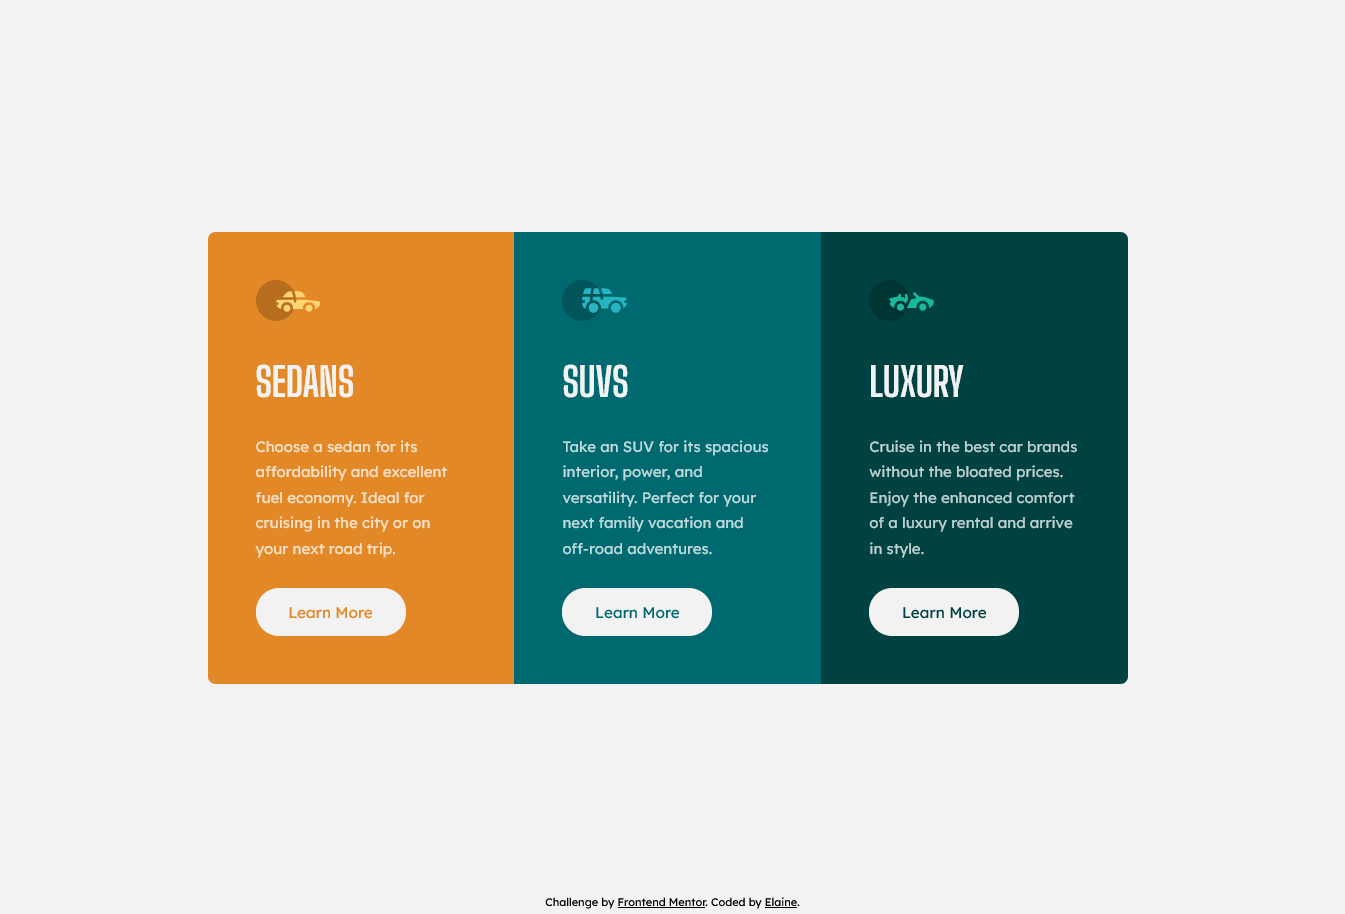
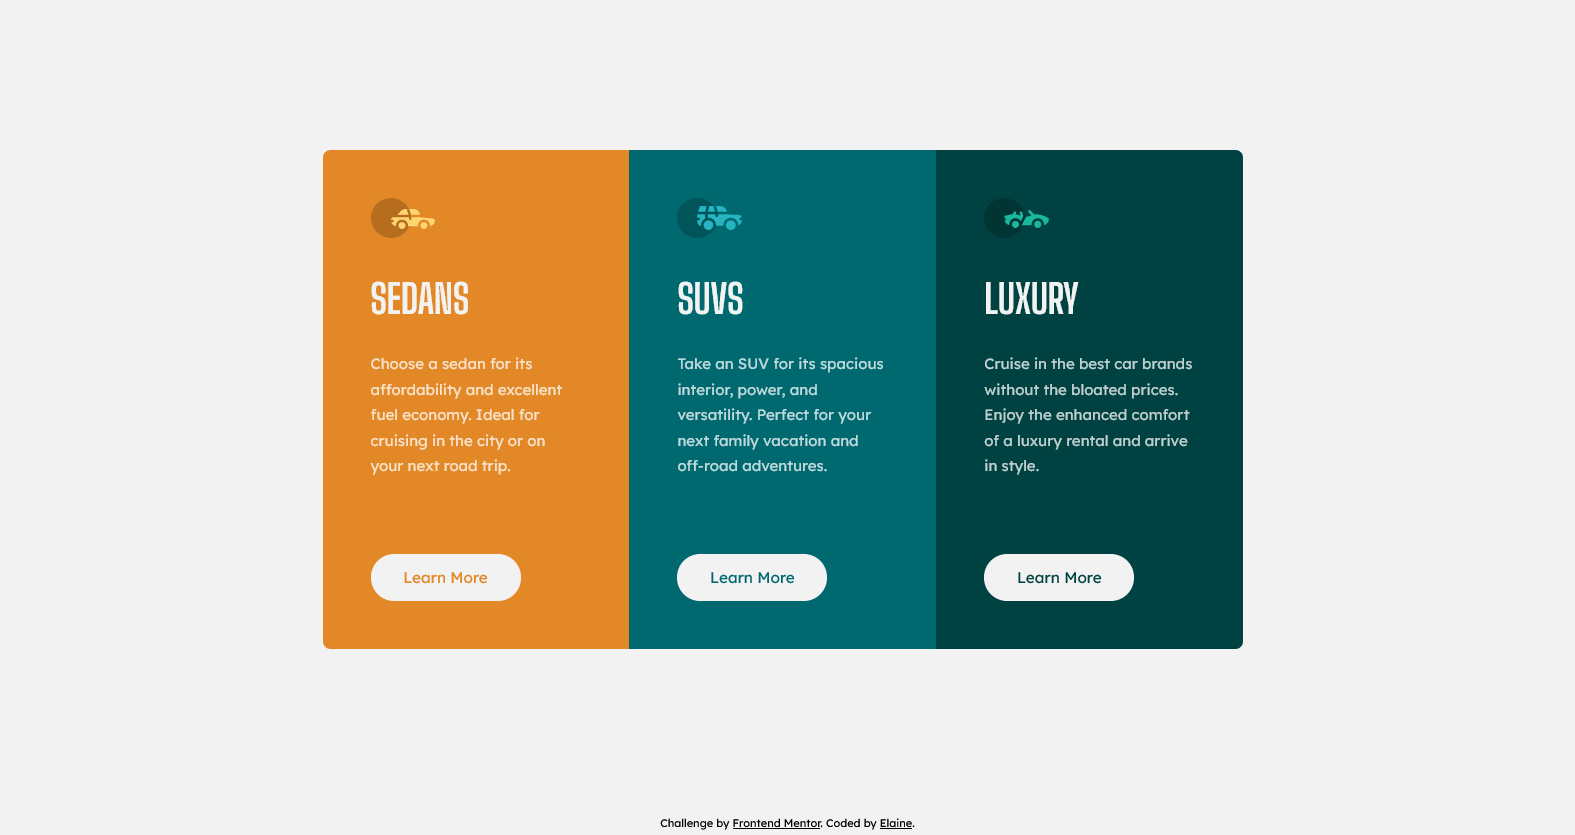
Update 3 column preview challenge

Changed region(s): [[0.1561, 0.1557, 0.8431, 0.7784], [0.4059, 0.9653, 0.5933, 0.9964]]

diff --git a/3columnpreview/stylesheet.css b/3columnpreview/stylesheet.css
@@ -118,7 +118,7 @@ body,
   margin-bottom: 0.7em;
 }
 
-p.section__body {
+.section__body {
   color: var(--clr-white-trsp);
   margin-bottom: 1.8em;
 }
@@ -177,6 +177,12 @@ footer {
   }
   .section__logo {
     width: 4.3em;
+  }
+  .section__title {
+    margin-bottom: 0.6em;
+  }
+  .section__body {
+    margin-bottom: 5.4em;
   }
   .section-orange {
     border-radius: 0.5em 0 0 0.5em ;
